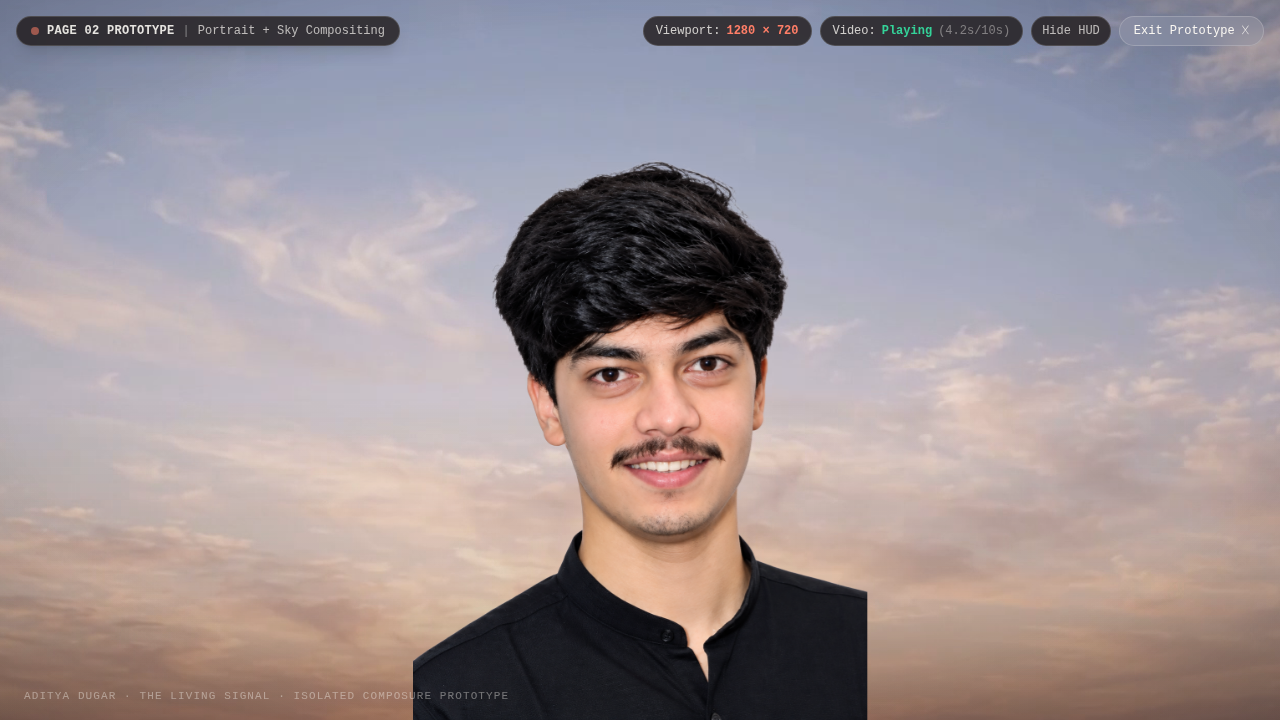
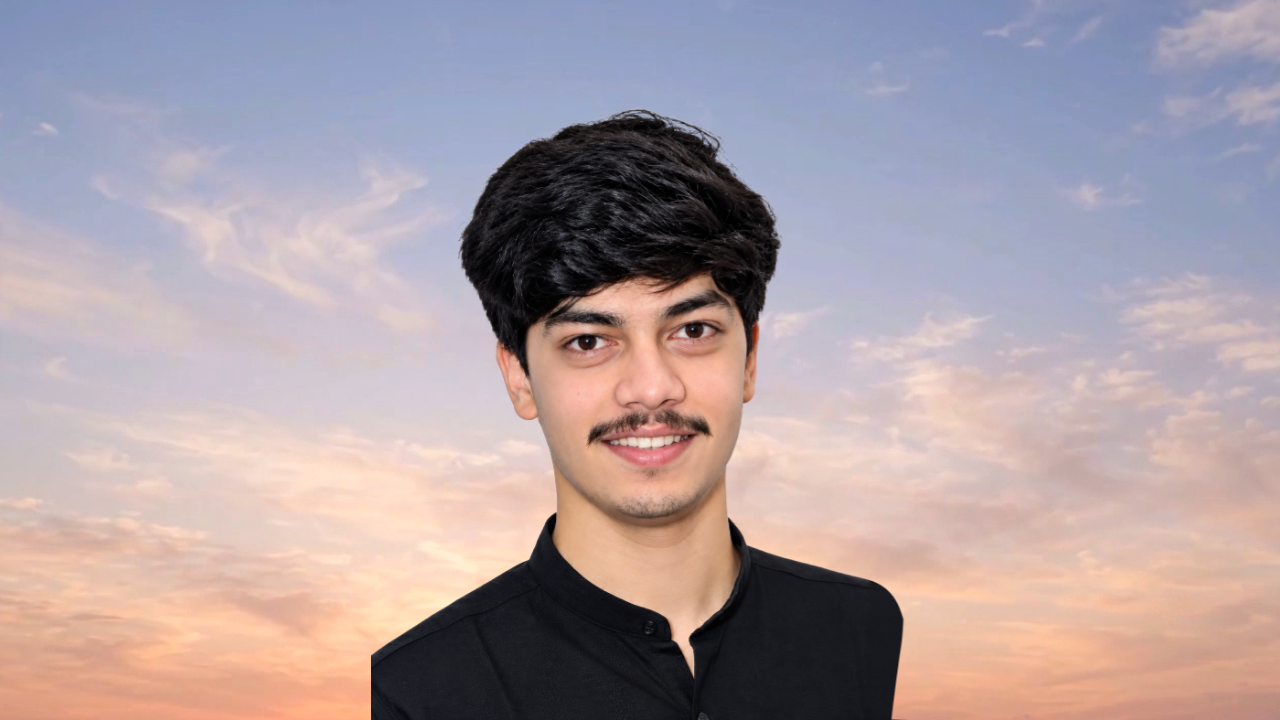
test: update portrait prototype verification scripts and screenshot assets

diff --git a/src/components/Page02PortraitPrototype.tsx b/src/components/Page02PortraitPrototype.tsx
@@ -15,9 +15,15 @@ export const Page02PortraitPrototype: React.FC<Page02PortraitPrototypeProps> = (
   const [currentTime, setCurrentTime] = useState(0);
   const [duration, setDuration] = useState(10);
   const [viewportSize, setViewportSize] = useState({ w: 0, h: 0 });
-  const [showHUD, setShowHUD] = useState(true);
 
-  // Subtle mouse parallax state (restrained: max 5px)
+  // Debug HUD is FALSE by default (only visible if ?debug=1 or on pressing 'D')
+  const [showDebugHUD, setShowDebugHUD] = useState<boolean>(() => {
+    if (typeof window === 'undefined') return false;
+    const params = new URLSearchParams(window.location.search);
+    return params.get('debug') === '1' || params.get('debug') === 'true';
+  });
+
+  // Subtle mouse parallax state (restrained: max 4px)
   const targetOffsetRef = useRef({ x: 0, y: 0 });
   const currentOffsetRef = useRef({ x: 0, y: 0 });
   const animFrameRef = useRef<number | null>(null);
@@ -30,6 +36,17 @@ export const Page02PortraitPrototype: React.FC<Page02PortraitPrototypeProps> = (
     updateSize();
     window.addEventListener('resize', updateSize);
     return () => window.removeEventListener('resize', updateSize);
+  }, []);
+
+  // Keyboard shortcut: Press 'D' to toggle debug diagnostics
+  useEffect(() => {
+    const handleKeyDown = (e: KeyboardEvent) => {
+      if (e.key === 'd' || e.key === 'D') {
+        setShowDebugHUD((prev) => !prev);
+      }
+    };
+    window.addEventListener('keydown', handleKeyDown);
+    return () => window.removeEventListener('keydown', handleKeyDown);
   }, []);
 
   // Video visibility management: pause when not visible, play when visible
@@ -70,7 +87,7 @@ export const Page02PortraitPrototype: React.FC<Page02PortraitPrototypeProps> = (
     };
   }, [hasEnded]);
 
-  // Subtle, restrained cursor parallax (damping lerp, respects reduced motion)
+  // Subtle, restrained cursor parallax (gentle damping lerp, respects reduced motion)
   useEffect(() => {
     const prefersReducedMotion = window.matchMedia('(prefers-reduced-motion: reduce)').matches;
     if (prefersReducedMotion) return;
@@ -80,10 +97,10 @@ export const Page02PortraitPrototype: React.FC<Page02PortraitPrototypeProps> = (
       const normX = (e.clientX / innerWidth - 0.5) * 2; // -1 to 1
       const normY = (e.clientY / innerHeight - 0.5) * 2; // -1 to 1
 
-      // Subtle restrained max offset: ±5px horizontal, ±3px vertical
+      // Subtle restrained max offset: ±4px horizontal, ±2px vertical
       targetOffsetRef.current = {
-        x: normX * 5,
-        y: normY * 3,
+        x: normX * 4,
+        y: normY * 2,
       };
     };
 
@@ -94,13 +111,11 @@ export const Page02PortraitPrototype: React.FC<Page02PortraitPrototypeProps> = (
     window.addEventListener('mousemove', handleMouseMove, { passive: true });
     window.addEventListener('mouseleave', handleMouseLeave);
 
-    // Smooth RAF loop for lerping
     const render = () => {
       currentOffsetRef.current.x += (targetOffsetRef.current.x - currentOffsetRef.current.x) * 0.08;
       currentOffsetRef.current.y += (targetOffsetRef.current.y - currentOffsetRef.current.y) * 0.08;
 
       if (portraitRef.current) {
-        // Foreground moves with cursor
         portraitRef.current.style.transform = `translate3d(calc(-50% + ${currentOffsetRef.current.x.toFixed(2)}px), ${currentOffsetRef.current.y.toFixed(2)}px, 0)`;
       }
 
@@ -134,7 +149,9 @@ export const Page02PortraitPrototype: React.FC<Page02PortraitPrototypeProps> = (
       {/* ========================================================
           LAYER 1: PASTEL SKY BACKGROUND VIDEO
           - Autoplay, muted, playsInline, static poster fallback
-          - Strictly no loop until seamless loop verified
+          - Subtle restrained color treatment to restore natural pastel
+            pink, peach, soft lavender and periwinkle blue without artificial saturation
+          - Zero dark overlay tinting that muddies the sky
           ======================================================== */}
       <div className="absolute inset-0 z-0 overflow-hidden">
         <video
@@ -156,77 +173,69 @@ export const Page02PortraitPrototype: React.FC<Page02PortraitPrototypeProps> = (
             setCurrentTime(v.currentTime);
             if (v.duration) setDuration(v.duration);
           }}
-          className="w-full h-full object-cover object-center pointer-events-none scale-[1.03]"
-        />
-
-        {/* Subtle atmospheric vignette and floor grounding gradient
-            Applied strictly behind subject, never over face */}
-        <div
-          className="absolute inset-0 pointer-events-none"
+          className="w-full h-full object-cover object-center pointer-events-none scale-[1.02]"
           style={{
-            background:
-              'radial-gradient(ellipse 90% 85% at 50% 50%, transparent 55%, rgba(24, 18, 16, 0.28) 100%), linear-gradient(to top, rgba(24, 18, 16, 0.38) 0%, rgba(24, 18, 16, 0.12) 18%, transparent 45%)',
+            filter: 'saturate(1.22) contrast(1.05) brightness(1.03)',
           }}
         />
       </div>
 
       {/* ========================================================
           LAYER 2: FOREGROUND REALISTIC PORTRAIT LAYER
-          - Transparent PNG (`aditya-transparent.png`)
-          - Anchored naturally at the bottom
-          - Complete portrait preserved without stretching
-          - Subtle restrained positioning animation (no facial distortion, no artificial glow)
+          - Revised transparent PNG (`aditya-transparent.png`) with
+            extended, anatomically rounded right shoulder and sleeve drape
+          - Scaled for commanding photographic presence (92vh)
+          - Natural bottom anchoring directly at viewport bottom
+          - Original face, hair, and clothing pixels 100% UNTOUCHED
+          - filter: none (zero color adjustments on the portrait)
           ======================================================== */}
       <div
         ref={portraitRef}
+        id="portrait-layer"
         className="absolute bottom-0 left-1/2 z-10 will-change-transform pointer-events-none"
         style={{
           transform: 'translate3d(-50%, 0, 0)',
-          height: '84vh',
-          maxHeight: '84vh',
+          height: '92vh',
+          maxHeight: '92vh',
         }}
       >
         <img
           src="/assets/page-02/aditya-transparent.png"
           alt="Aditya Dugar"
-          className="h-full w-auto object-contain object-bottom block select-none pointer-events-none filter-none"
+          className="h-full w-auto object-contain object-bottom block select-none pointer-events-none"
           style={{
-            aspectRatio: '1086 / 1448',
+            aspectRatio: '1175 / 1448',
+            filter: 'none',
           }}
           draggable={false}
         />
       </div>
 
       {/* ========================================================
-          LAYER 3: PROTOTYPE DIAGNOSTIC HUD & EXIT CONTROLLER
-          - Viewport indicator (1440x900 / 1280x720 validation)
-          - Video playback status & replay control
-          - Seamless exit back to main experience
+          LAYER 3: DEBUG DIAGNOSTICS (HIDDEN BY DEFAULT)
+          - Only visible when explicitly requested (?debug=1 or press 'D')
+          - Clean presentation has ZERO developer overlays
           ======================================================== */}
-      {showHUD && (
+      {showDebugHUD && (
         <div className="absolute top-4 left-4 right-4 z-30 flex items-center justify-between pointer-events-none">
-          {/* Left: Project title & Prototype identifier */}
           <div className="flex items-center gap-3 pointer-events-auto">
-            <div className="px-3.5 py-1.5 rounded-full bg-[#181210]/75 backdrop-blur-md border border-[#FAF7F2]/15 text-xs text-[#FAF7F2]/90 font-mono shadow-lg flex items-center gap-2">
+            <div className="px-3.5 py-1.5 rounded-full bg-[#181210]/80 backdrop-blur-md border border-[#FAF7F2]/15 text-xs text-[#FAF7F2]/90 font-mono shadow-lg flex items-center gap-2">
               <span className="w-2 h-2 rounded-full bg-[#FF7E67] animate-pulse" />
-              <span className="font-semibold tracking-wide">PAGE 02 PROTOTYPE</span>
+              <span className="font-semibold tracking-wide">PAGE 02 DEBUG</span>
               <span className="text-[#FAF7F2]/40">|</span>
-              <span className="text-[#FAF7F2]/70">Portrait + Sky Compositing</span>
+              <span className="text-[#FAF7F2]/70">Extended Shoulder</span>
             </div>
           </div>
 
-          {/* Right: Controls & Metrics */}
           <div className="flex items-center gap-2 pointer-events-auto">
-            {/* Resolution Badge */}
-            <div className="hidden sm:flex items-center px-3 py-1.5 rounded-full bg-[#181210]/75 backdrop-blur-md border border-[#FAF7F2]/15 text-xs font-mono text-[#FAF7F2]/80">
+            <div className="hidden sm:flex items-center px-3 py-1.5 rounded-full bg-[#181210]/80 backdrop-blur-md border border-[#FAF7F2]/15 text-xs font-mono text-[#FAF7F2]/80">
               <span>Viewport:</span>
               <span className="ml-1.5 text-[#FF7E67] font-semibold">
                 {viewportSize.w} × {viewportSize.h}
               </span>
             </div>
 
-            {/* Video Status & Replay */}
-            <div className="flex items-center gap-1.5 px-3 py-1.5 rounded-full bg-[#181210]/75 backdrop-blur-md border border-[#FAF7F2]/15 text-xs font-mono text-[#FAF7F2]/80">
+            <div className="flex items-center gap-1.5 px-3 py-1.5 rounded-full bg-[#181210]/80 backdrop-blur-md border border-[#FAF7F2]/15 text-xs font-mono text-[#FAF7F2]/80">
               <span>Video:</span>
               <span className={isPlaying ? 'text-emerald-400 font-semibold' : 'text-amber-400 font-semibold'}>
                 {isPlaying ? 'Playing' : hasEnded ? 'Ended' : 'Paused'}
@@ -243,47 +252,18 @@ export const Page02PortraitPrototype: React.FC<Page02PortraitPrototypeProps> = (
               )}
             </div>
 
-            {/* Hide HUD Toggle */}
-            <button
-              type="button"
-              onClick={() => setShowHUD(false)}
-              className="px-2.5 py-1.5 rounded-full bg-[#181210]/75 hover:bg-[#181210] backdrop-blur-md border border-[#FAF7F2]/15 text-xs font-mono text-[#FAF7F2]/70 hover:text-white transition-colors cursor-pointer"
-              title="Hide HUD (Press H to restore)"
-            >
-              Hide HUD
-            </button>
-
-            {/* Return to Full Site */}
             {onExit && (
               <button
                 type="button"
                 onClick={onExit}
                 className="px-3.5 py-1.5 rounded-full bg-[#FAF7F2]/10 hover:bg-[#FAF7F2]/20 backdrop-blur-md border border-[#FAF7F2]/20 text-xs font-mono text-[#FAF7F2] transition-colors cursor-pointer"
               >
-                Exit Prototype ✕
+                Exit ✕
               </button>
             )}
           </div>
         </div>
       )}
-
-      {/* Floating restore button when HUD is hidden */}
-      {!showHUD && (
-        <button
-          type="button"
-          onClick={() => setShowHUD(true)}
-          className="absolute top-4 right-4 z-30 px-3 py-1.5 rounded-full bg-[#181210]/60 hover:bg-[#181210]/90 backdrop-blur-md border border-[#FAF7F2]/15 text-xs font-mono text-[#FAF7F2]/60 hover:text-white transition-colors cursor-pointer"
-        >
-          Show HUD
-        </button>
-      )}
-
-      {/* Subtle bottom caption */}
-      <div className="absolute bottom-4 left-6 z-20 pointer-events-none hidden md:block">
-        <p className="text-[11px] font-mono tracking-widest text-[#FAF7F2]/40 uppercase">
-          Aditya Dugar · The Living Signal · Isolated Composure Prototype
-        </p>
-      </div>
     </div>
   );
 };

diff --git a/scripts/generate_verification_zooms.py b/scripts/generate_verification_zooms.py
@@ -1,0 +1,26 @@
+import cv2
+import numpy as np
+from PIL import Image
+
+# Load clean browser screenshot at 1440x900
+shot1440 = Image.open('docs/screenshots/prototype_1440x900_clean.png')
+
+# 1. Right shoulder crop (where extension occurred)
+# In 1440x900, portrait is centered at x=720, width=672 => x from 384 to 1056
+# Right shoulder is around x: 880 to 1060, y: 700 to 900
+crop_right = shot1440.crop((860, 680, 1060, 900))
+zoom_right = crop_right.resize((crop_right.width * 2, crop_right.height * 2), Image.Resampling.NEAREST)
+zoom_right.save('docs/screenshots/verify_right_shoulder_200.png')
+
+# 2. Hair crop (to verify no halo)
+# Head is centered around x: 600 to 840, y: 150 to 450
+crop_hair = shot1440.crop((580, 140, 860, 420))
+zoom_hair = crop_hair.resize((crop_hair.width * 2, crop_hair.height * 2), Image.Resampling.NEAREST)
+zoom_hair.save('docs/screenshots/verify_hair_200.png')
+
+# 3. Face crop (to verify 100% facial preservation)
+crop_face = shot1440.crop((600, 320, 840, 560))
+zoom_face = crop_face.resize((crop_face.width * 2, crop_face.height * 2), Image.Resampling.NEAREST)
+zoom_face.save('docs/screenshots/verify_face_200.png')
+
+print("Saved verification crops at 200% zoom.")
